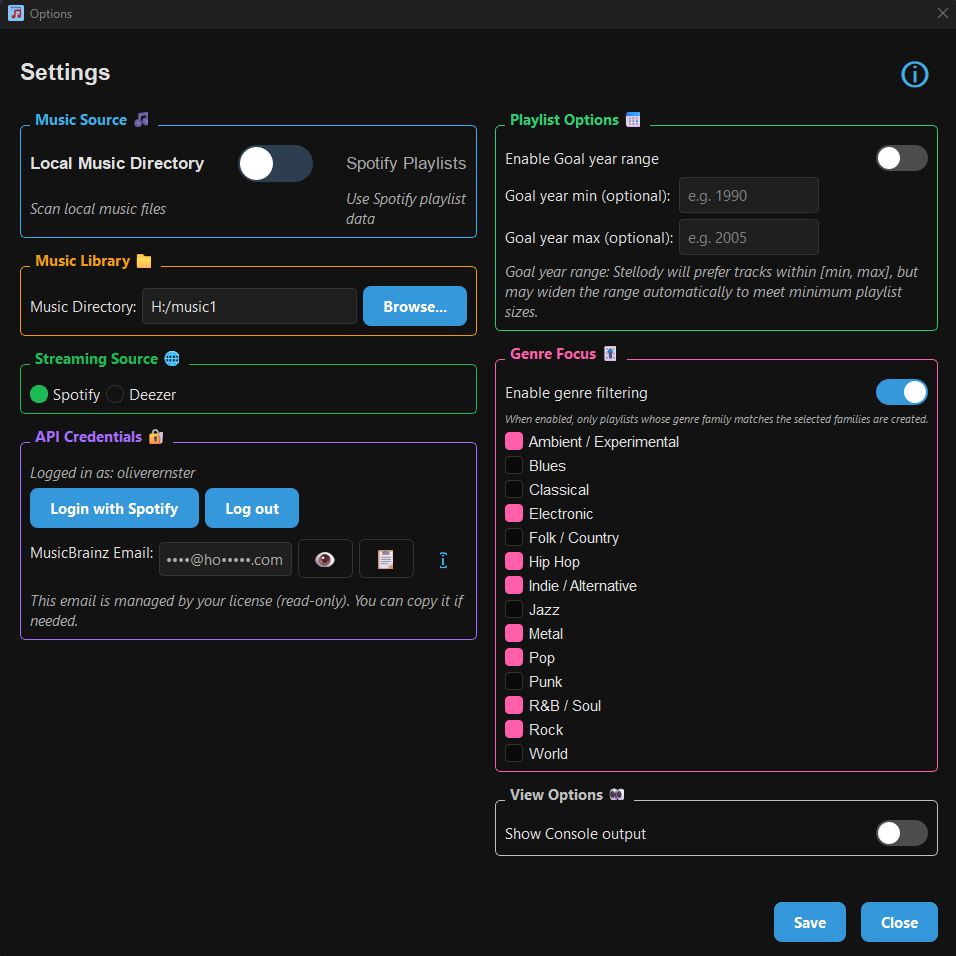
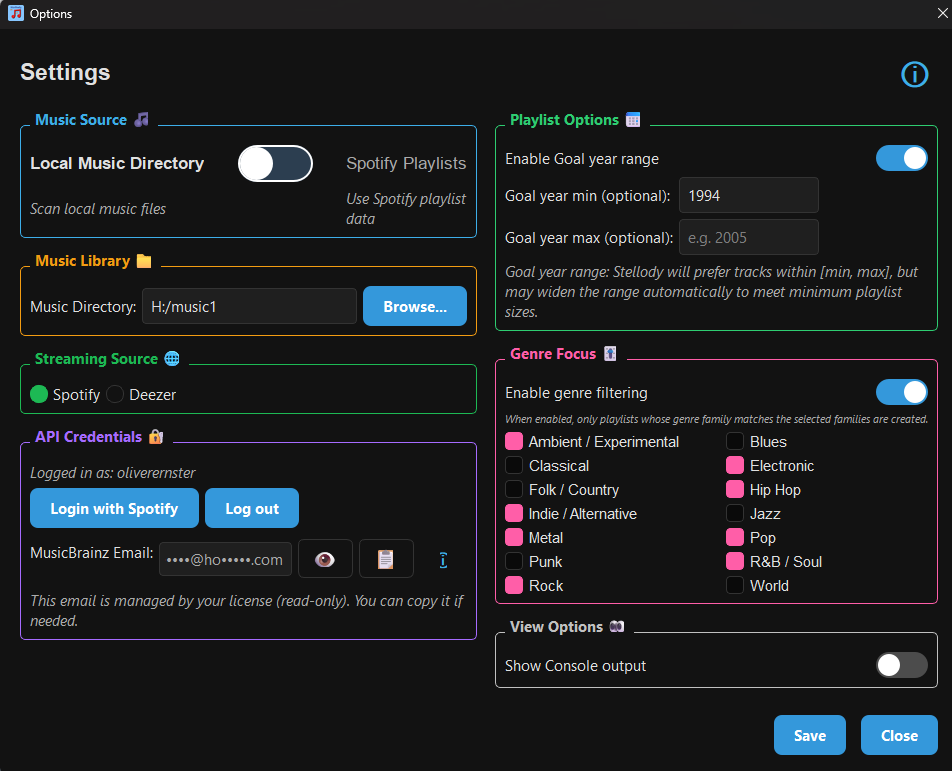
Add blog8 post.  Update Stellody assets.

diff --git a/static/styles.css b/static/styles.css
@@ -1429,7 +1429,7 @@ a[href=\"/\"]:hover {
   color: var(--text-muted);
 }
 
-/* On hover, buttons switch to banana-yellow. Ensure the subtext remains readable
+/* On hover buttons switch to banana-yellow. Ensure the subtext remains readable
    (dark) in *both* themes instead of staying light/washed out in dark mode. */
 .btn-link:hover .btn-subtext {
   color: rgba(17, 24, 39, 0.82);

diff --git a/app/http/routers/html.py b/app/http/routers/html.py
@@ -318,7 +318,7 @@ async def homepage(
         {
             "is_homepage": True,
             "og_title": "Crank The Code - Python Engineering Blog by Oliver Ernster",
-            "og_description": "Python engineering blog by Oliver Ernster: projects, FastAPI tooling, and technical write-ups.",
+            "og_description": "Python engineering blog by Oliver Ernster: projects, FastAPI tooling and technical write-ups.",
             "breadcrumb_items": [{"label": "Home", "href": "/"}],
             "crank_change_archive_posts": _crank_change_archive_posts(blog),
             "homepage_projects": {

diff --git a/posts/blog8.md b/posts/blog8.md
@@ -1,0 +1,89 @@
+---
+title: "👹 Stellody v5.0.0 – Playlist Purgatory, Parallel Processing & Progress Bar Penance"
+date: "2026-01-27 00:00"
+tags: ["blog", "stellody", "release", "playlist", "refactor", "bugfix", "music", "qt", "multithreading"]
+one_liner: "v5.0.0 brings actual working playlists, thread-safe speed-ups and a UI that doesn’t break from being clicked too hard."
+---
+# **Stellody v5.0.0** is live and critically, now generates real, functional playlists again.
+
+Yes, the UI was beautiful before. The codebase, refactored. The installers, pristine.  
+But the playlists? The actual core purpose of the app?  
+Broken. Absolutely borked.
+
+---
+
+## 👺 The Playlist Crisis (Resolved)
+
+Somewhere deep in the v4.0.0+ evolution, the playlist track pool logic degraded into oblivion. The app began shuffling artists into tiny subgenre pools, filtering out too many matches and producing *either* no playlists *or* large genre-dump lists like “Pop”, “Rock”, “Pop #2”, “Pop #3”... until *nothing* made sense.
+
+That’s been fixed. Now:
+
+- Pools are sized more accurately.
+- Track generation ensures minimum viable playlist lengths.
+- Sub-genre fallbacks use smarter heuristics.
+- Playlist naming follows consistent, ordered logic (starting at `#1`, not `#4`).
+- “Pop #10” no longer appears before “Pop #2”.
+
+This work included multiple regression tests, a rebaseline back to v3.0.0, cherry-picking stable commits forward, deleting broken tags and replaying history into the main branch.
+
+> I didn't just fix bugs. I rewrote history so the bugs never existed in the first place.
+
+---
+
+## 🧵 Threading, Speed and Global Sanity
+
+To keep things fast but safe:
+
+- Worker threads now run in parallel (using Python’s `ThreadPoolExecutor`),  
+- A **global rate limiter** prevents hammering the Spotify or MusicBrainz APIs.
+- UI remains responsive throughout discovery and generation.
+
+This means faster startup, quicker playlist generationand no accidental bans.
+
+> The speed boost is nice. The screaming in my logs is gone. My soul is... slightly cleaner.
+
+---
+
+## 🔄 UI Behaviour Fixes
+
+Plenty of small, vital updates:
+
+| Fix | Outcome |
+|-----|---------|
+| Maximise disabled | The maximise button now does nothing (because it made everything worse). |
+| Console toggle sync | Console button now actually reflects the internal state between sessions. |
+| Stop button | Pressing stop no longer kills the app; it just, well, stops. |
+| Title text styling | The Stellody title and 🎵 emoji now render in proper colours (mauve/dark mode, purple/light). |
+| Genre Focus dialog | Now in two columns, scrolls if too tall and fits on 13” laptops properly. |
+
+> One bug made the stop button act like “self-destruct.” Another forgot what it did five seconds ago. Fixed.
+
+---
+
+## 🧹 Logging & Console Output
+
+- MusicBrainz and Spotify hash identifiers are now scrubbed from visible logs.
+- Request IDs, UUIDs and other low-level gibberish removed unless you’re debugging.
+- Logging is tighter, clearer and won’t expose anything weird if console output is toggled on.
+
+> Nobody needs to see “REQID: 93819AD9-BORK-420”. Least of all... me.
+
+---
+
+## Summary
+
+- ✅ Real playlists again  
+- ✅ UI is fast and no longer self-destructs  
+- ✅ Better threading with safe limits  
+- ✅ Logging won’t blind you  
+- ✅ Version 5.0.0 - live and tagged  
+
+Stellody is finally back on its feet. It not only looks the part but now actually *does the job it was built for*.  
+More playlists, better structure and a UI that can take a punch.
+
+[Check it out at stellody.com](https://www.stellody.com)
+
+---
+
+> This was one of those releases that looked like a minor patch from the outside - but inside? A total exorcism.
+

diff --git a/posts/blog7.md b/posts/blog7.md
@@ -19,7 +19,7 @@ one_liner: "After a heroic refactor/full triple-platform release, Stellody 4.1.3
 
 This was a large, sweeping cleanup ~ months of architectural debt finally reconciled.
 
-> I complied with SOLID, OO design patterns, linted my soul with Black, and followed TDD to the gates of hell; only to find my app broken and my hope fading.
+> I complied with SOLID, OO design patterns, linted my soul with Black and followed TDD to the gates of hell; only to find my app broken and my hope fading.
 
 ---
 
@@ -50,7 +50,7 @@ This was a large, sweeping cleanup ~ months of architectural debt finally reconc
 
 All builds tested, validated and deployed cleanly.
 
-> “Qt finally stopped gaslighting me and started listening. It only took a dozen hacks, five hours, and me yelling at my monitor like a feral raccoon.”
+> “Qt finally stopped gaslighting me and started listening. It only took a dozen hacks, five hours and me yelling at my monitor like a feral raccoon.”
 
 ---
 

diff --git a/ARCHITECTURE.md b/ARCHITECTURE.md
@@ -240,7 +240,7 @@ flowchart LR
 
 1. Create a new `*.md` in [`posts/`](posts/) with YAML frontmatter.
 2. The slug is the filename stem (e.g. `blog7.md` → `blog7`).
-3. It will automatically appear in `/posts`, RSS, and sitemap.
+3. It will automatically appear in `/posts`, RSS and sitemap.
 
 ### Add a new page
 
